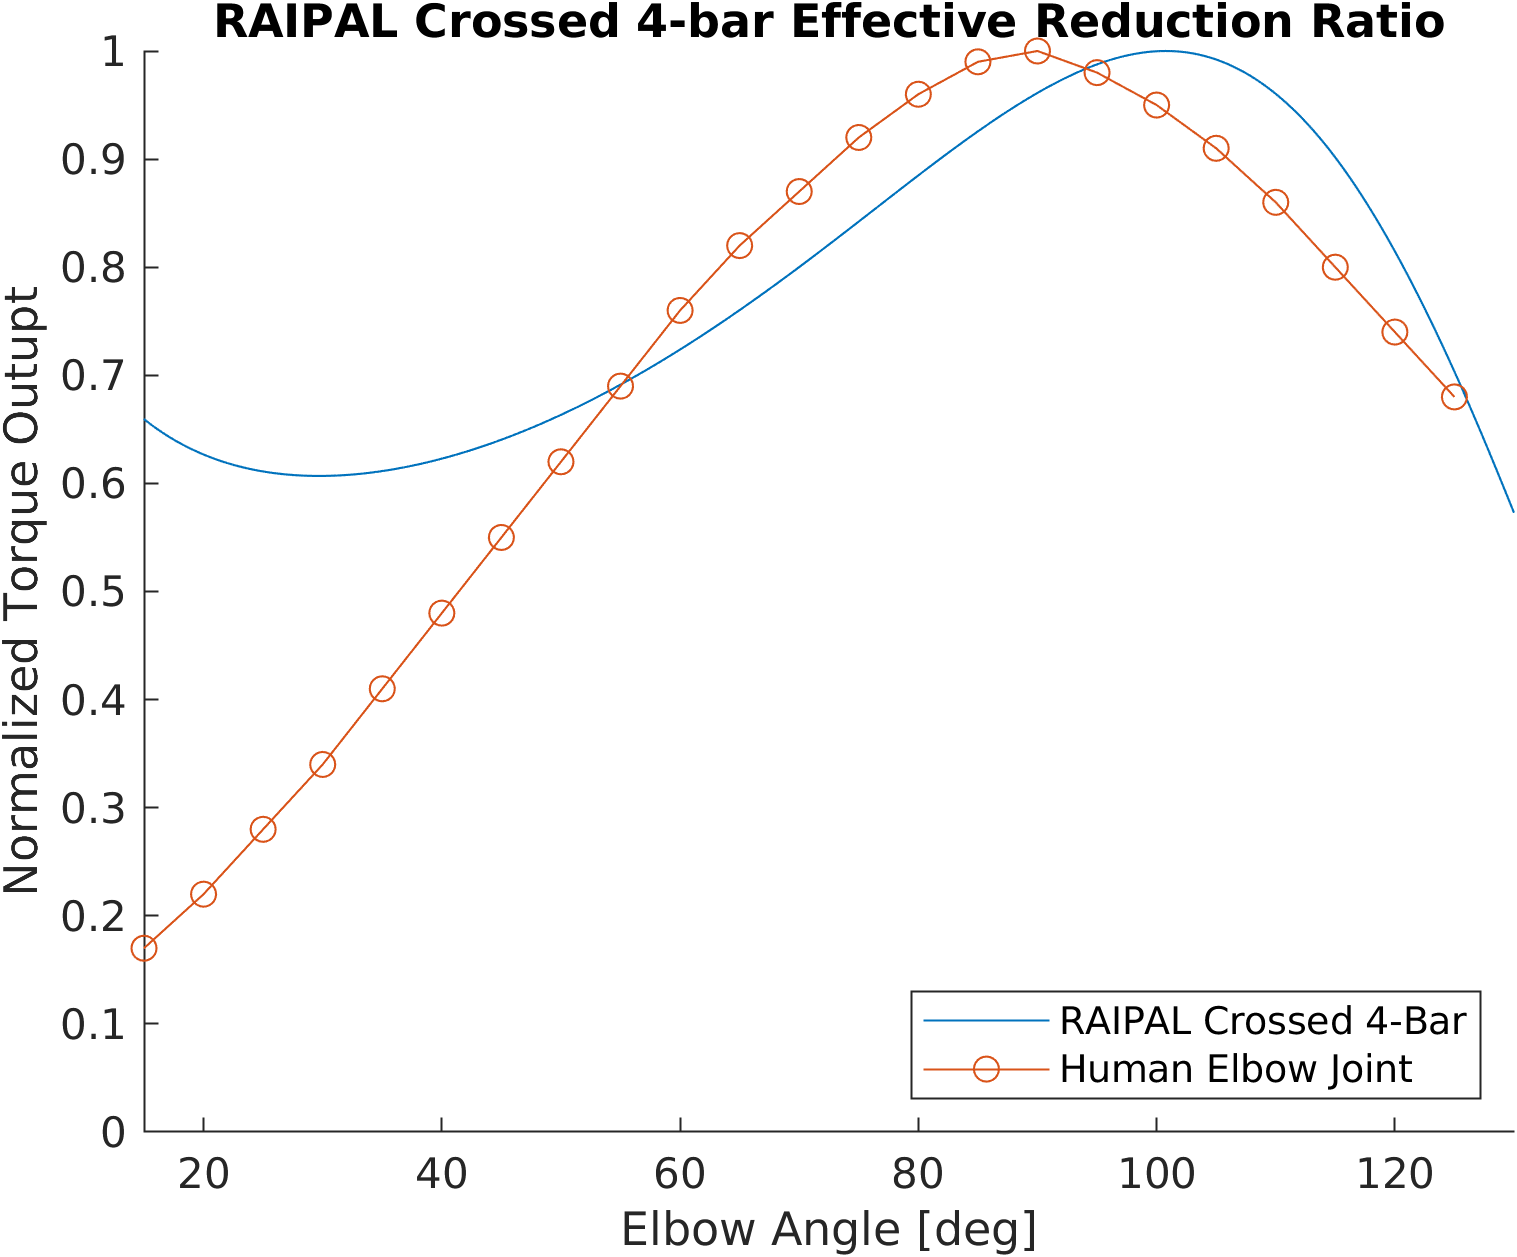
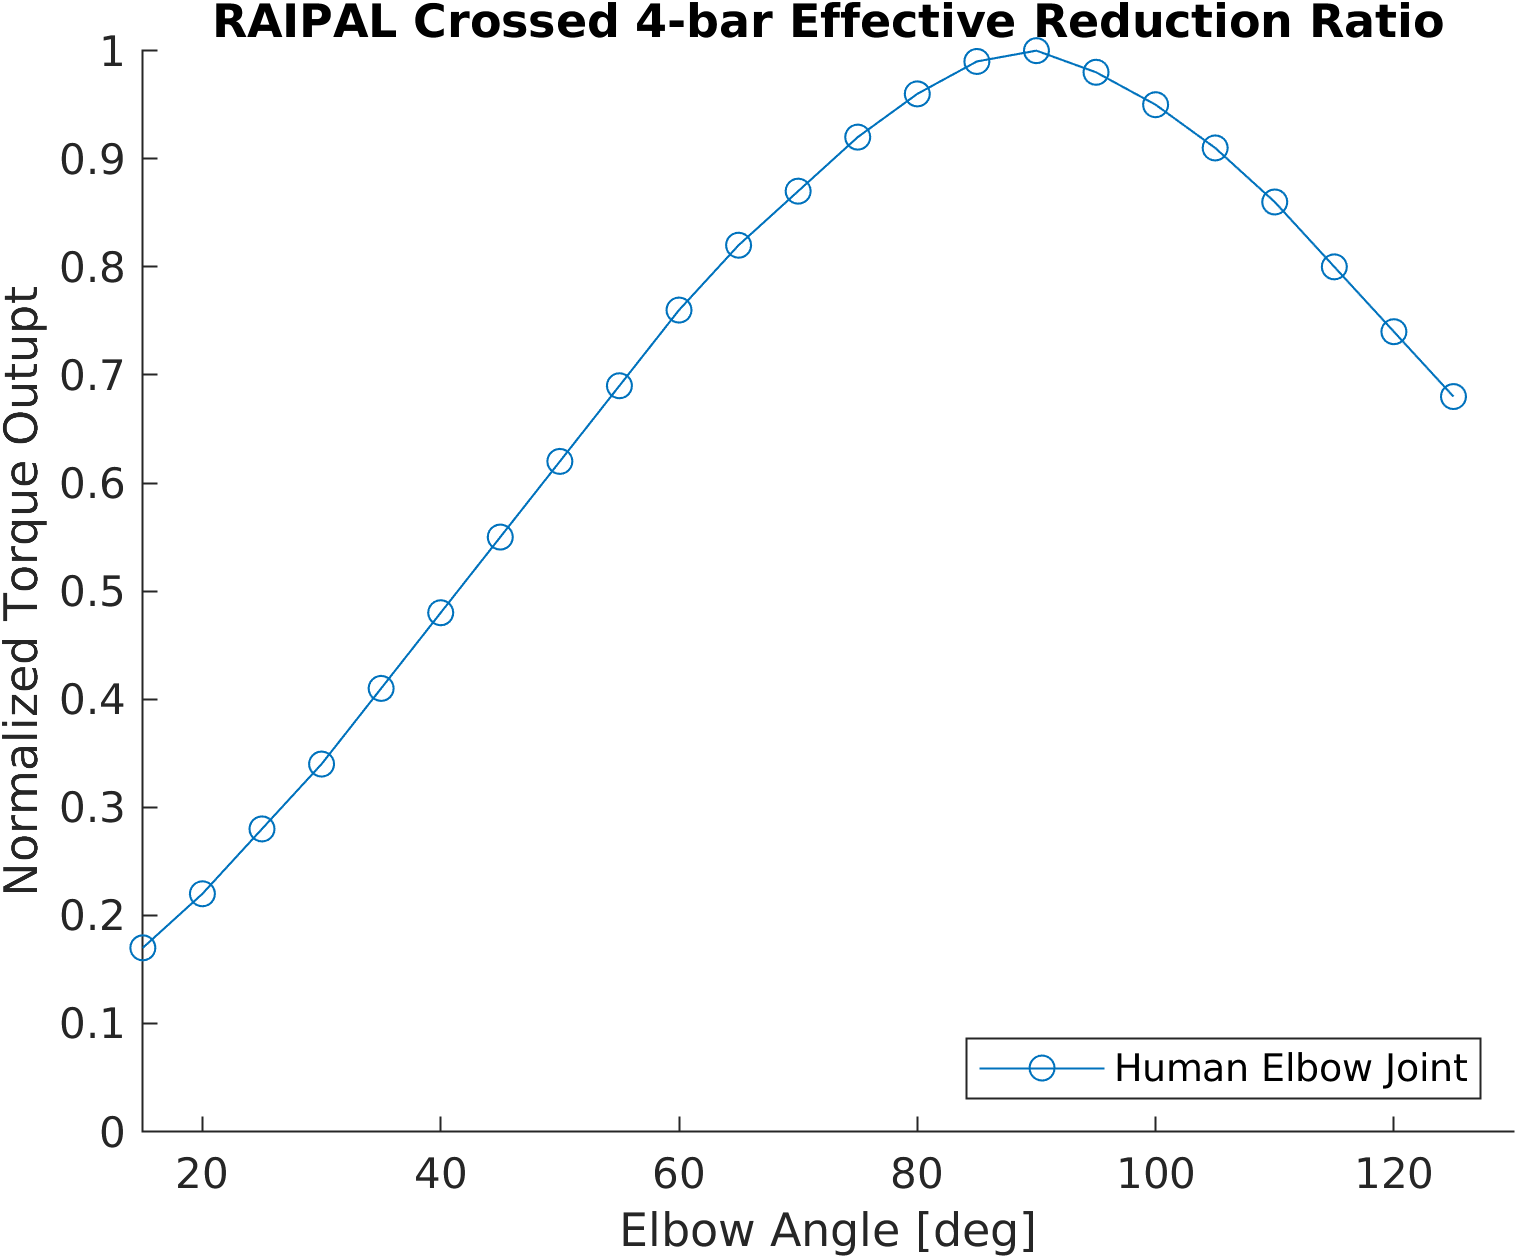
Edited log analysis and removed video files from git index

diff --git a/CFB_approx.m b/CFB_approx.m
@@ -201,17 +201,21 @@ wc_domain = [wc_domain(1) - (wc_domain(2) - wc_domain(1));wc_domain];
 % this is a bad idea since the solution is not unique!
 
 %% Plotting effective reduction ratio
+set(groot, "defaultAxesFontSize",   17);
+set(groot, "defaultTextFontSize",   20);
+set(groot, "defaultLegendFontSize", 13);
+set(groot, "defaultColorbarFontSize", 20);
 
 
 if ishandle(99)
     close(99);
 end
 fig_reduction = figure(99);
-
+fig_reduction.Position = [100 100 960 500];
 inv_wb_fit = 1 ./ wb_fit;
 normalized_inv_wb_fit = inv_wb_fit / max(inv_wb_fit(300:num_points,:));
 
-title("RAIPAL Crossed 4-bar Effective Reduction Ratio")
+title("Elbow Effective Reduction Ratio")
 xlabel("Elbow Angle [deg]")
 ylabel("Normalized Torque Outupt")
 % xlim([0 max(b_fit * 180 / pi)]);
@@ -219,11 +223,14 @@ xlim([15 max(b_fit * 180 / pi)]);
 ylim([0 1]);
 hold on;
 legend('location','southeast');
-plot(b_fit * 180 / pi, normalized_inv_wb_fit,"DisplayName","RAIPAL Crossed 4-Bar");
 plot(b_human, inv_wb_human, "-o", "DisplayName", "Human Elbow Joint");
+exportgraphics(fig_reduction,"results/FIGURE_reduction_human.png","Resolution",300)
+
+plot(b_fit * 180 / pi, normalized_inv_wb_fit,"DisplayName","RAIPAL Crossed 4-Bar");
+
 hold off;
 
-exportgraphics(fig_reduction,"results/FIGURE_reduction.png","Resolution",300)
+exportgraphics(fig_reduction,"results/FIGURE_reduction_full.png","Resolution",300)
 
 
 %% function definitions

diff --git a/log_analysis.m b/log_analysis.m
@@ -81,7 +81,7 @@ ratio_max = 0.875;
 
 %% A simple movie about changing MOR (single plot)
 idx_start = length(a_domain);
-idx_end = 475;
+idx_end = 100;
 frame_step = -15;
 save_movie = true;
 movie_file = "videos/MOR_animation.avi";
